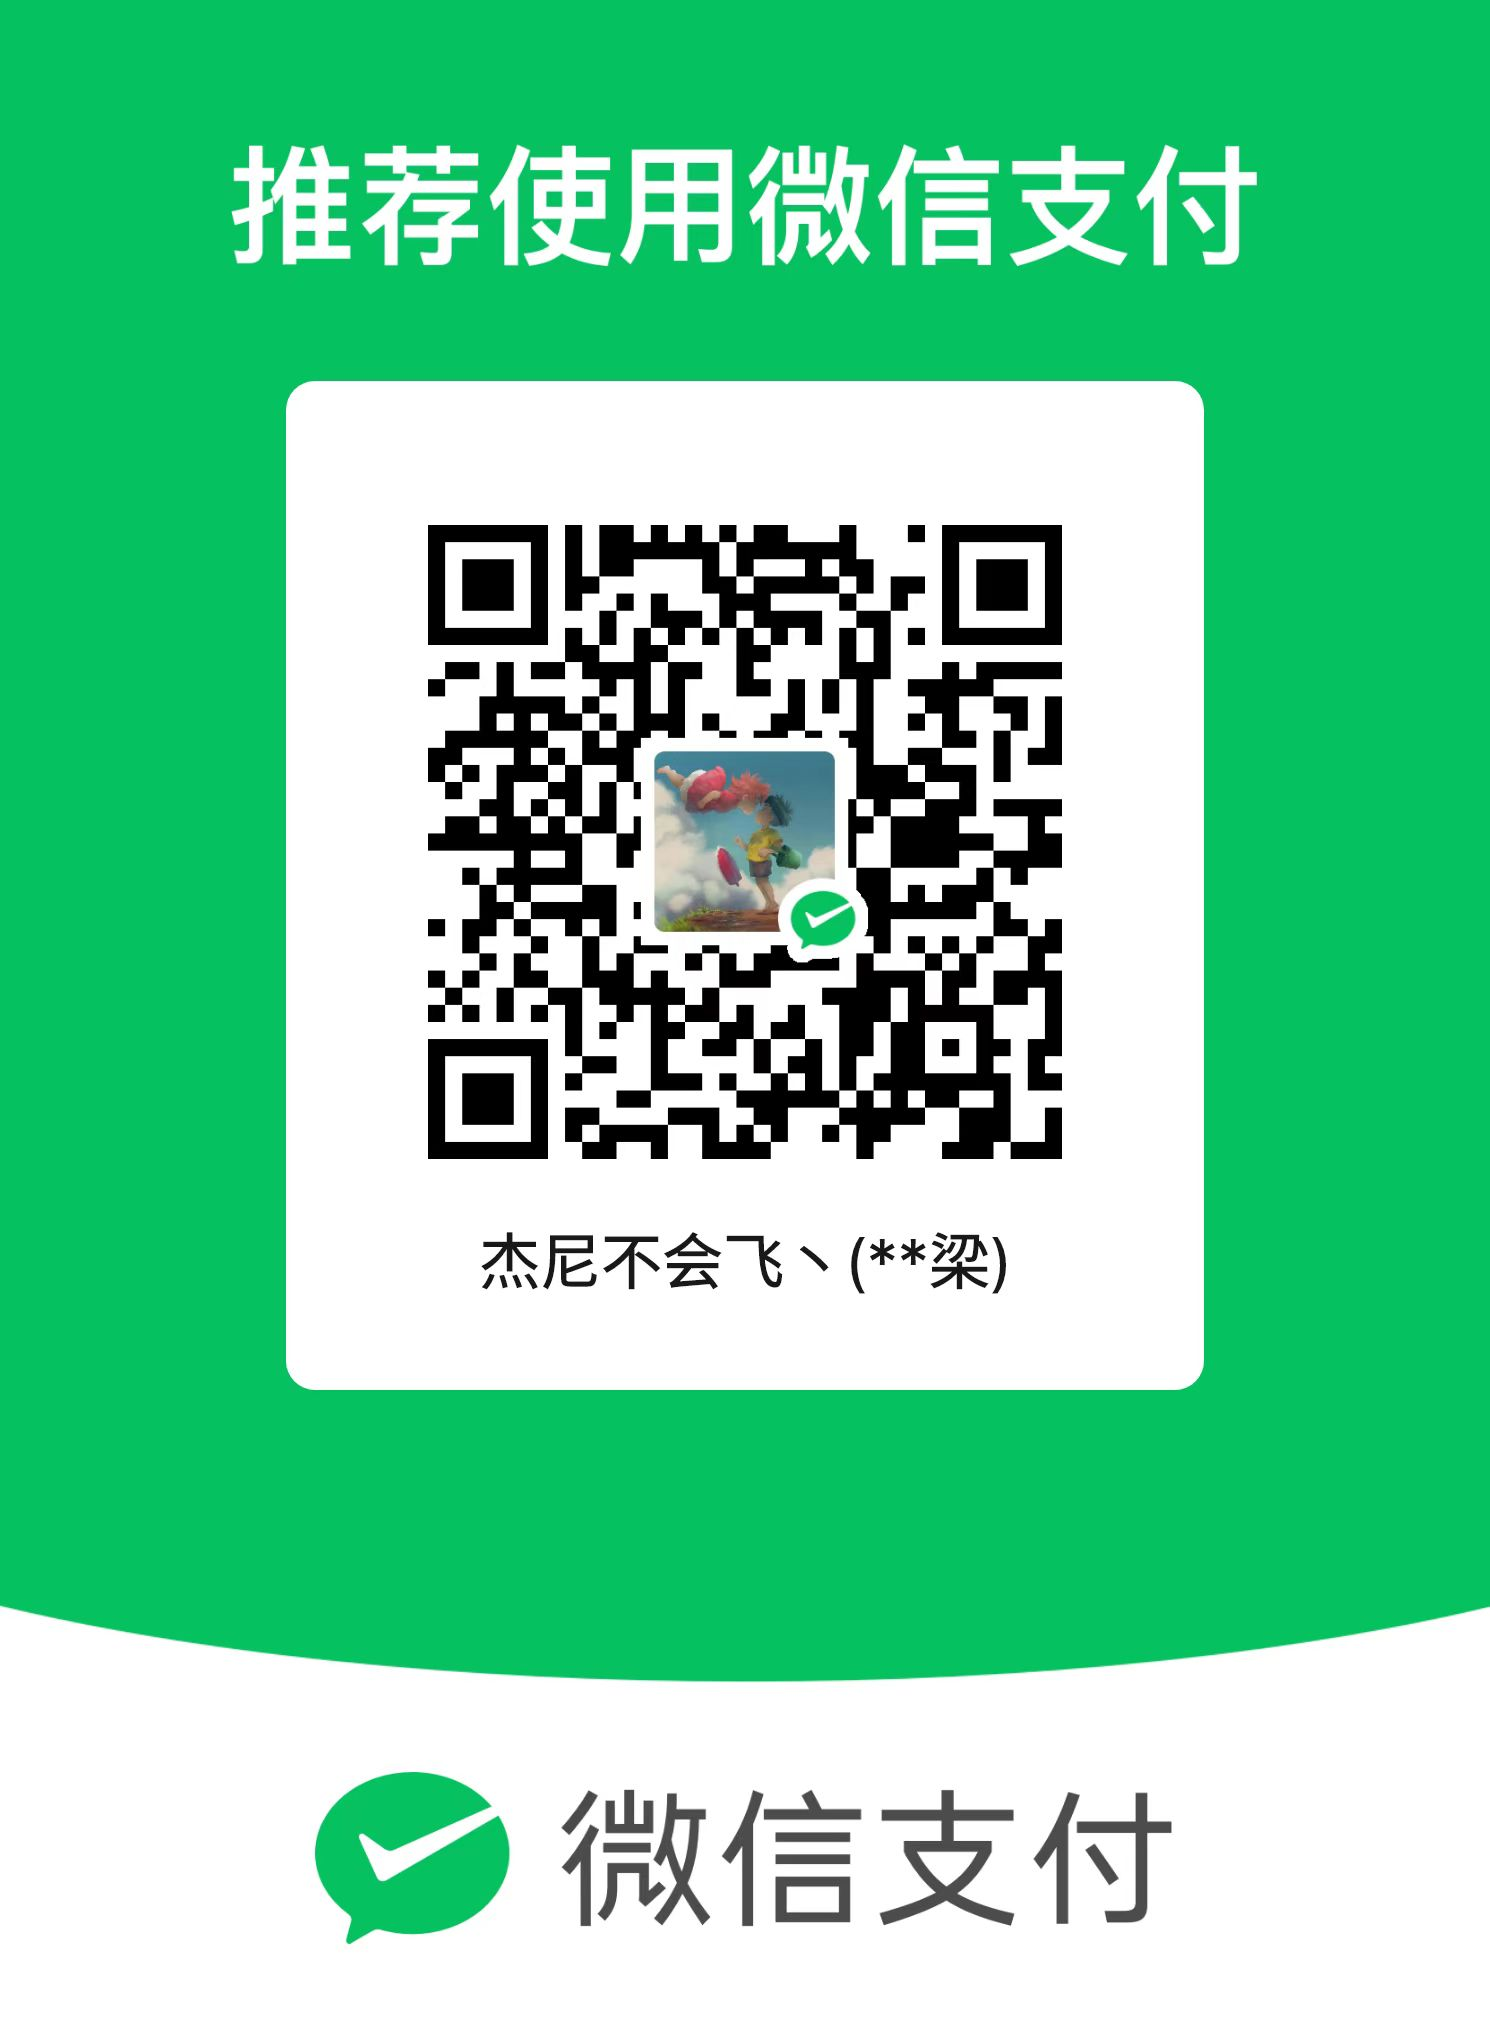
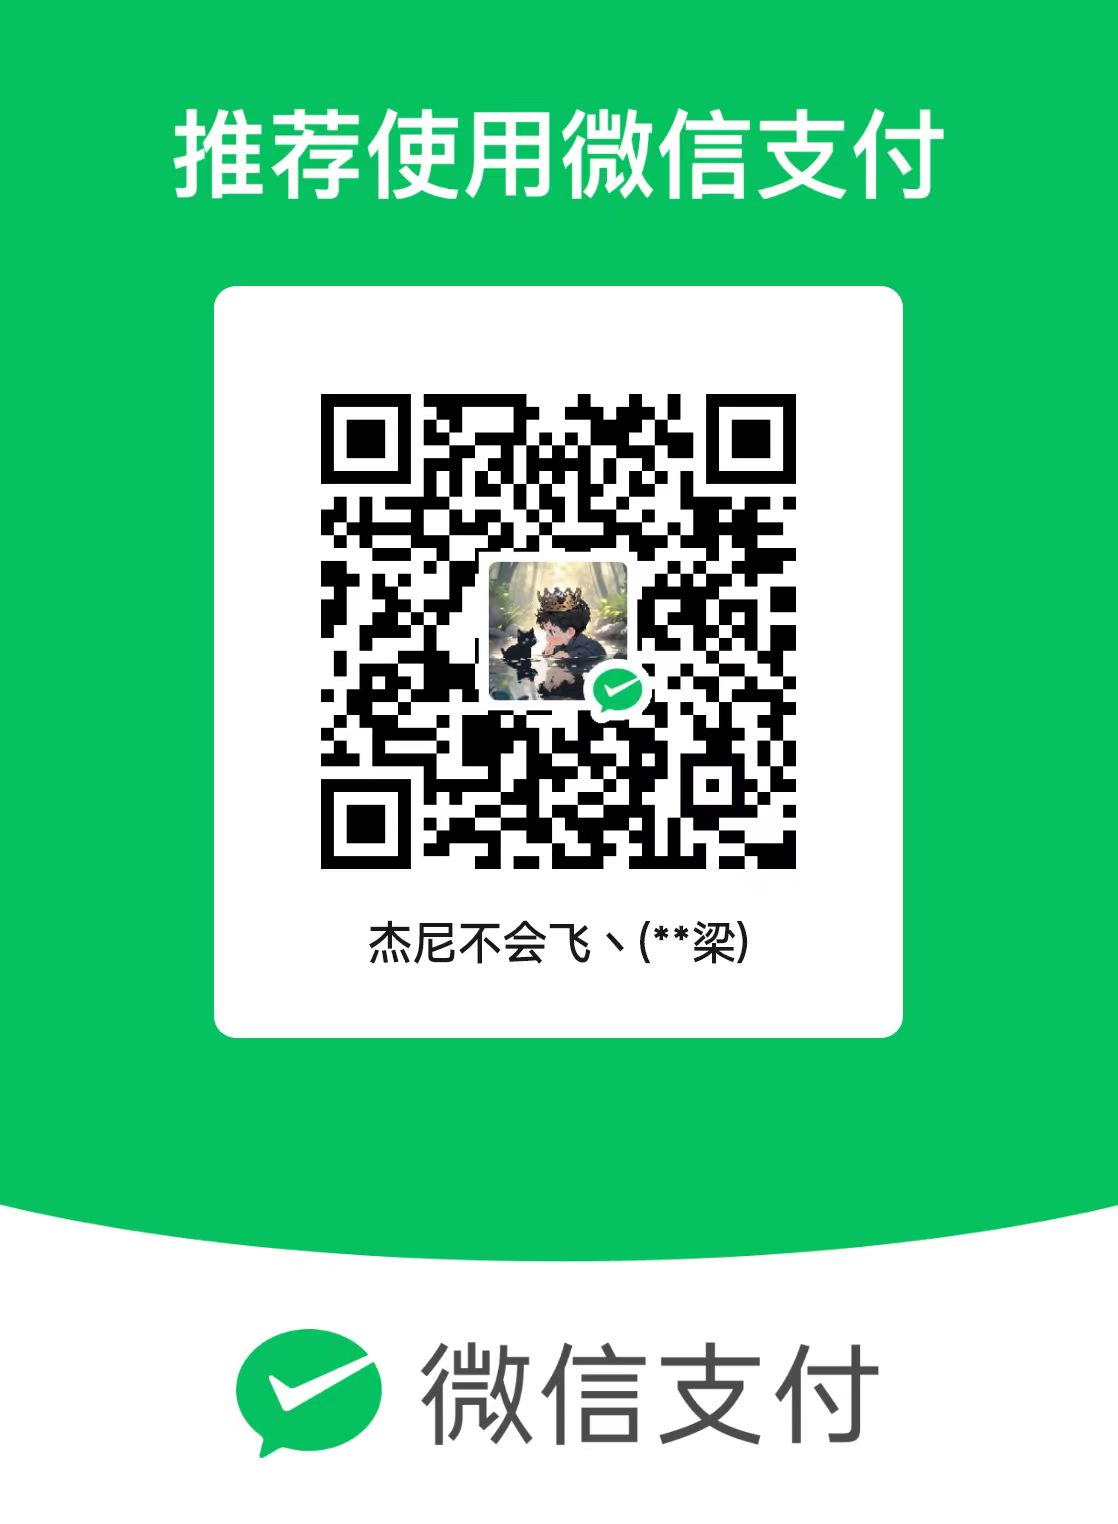
update readme!

diff --git a/README.md b/README.md
@@ -19,4 +19,8 @@
 如果觉得本工具对你有帮助，不妨请作者喝杯奶茶😊😊😊
 ```
 
-<img src="tools/base/wx_payment_code.jpg" width = "300" height = "300" />
+<div>
+    <img src="tools/base/ali_payment_code.jpg" width = "300" height = "300">
+    <img src="tools/base/wx_payment_code.jpg" width = "300" height = "300">
+</div>
+
